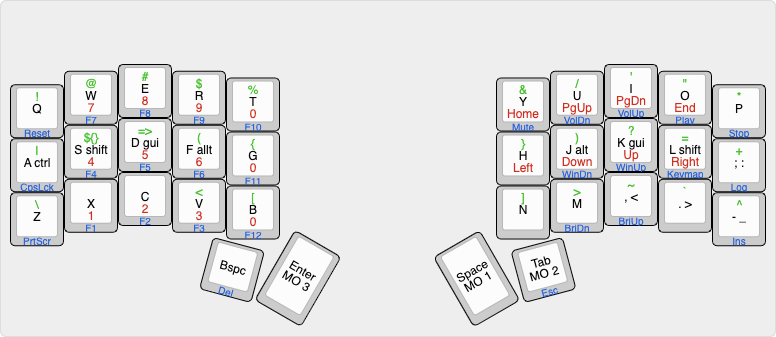
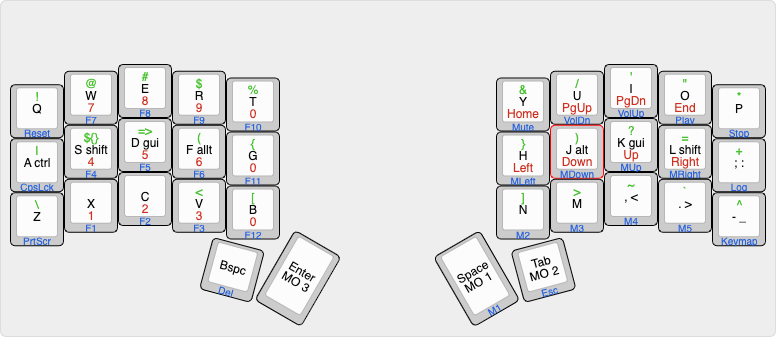
Enable and setup mouse keys

diff --git a/keyboards/crkbd/keymaps/antonioxdias/keymap.c b/keyboards/crkbd/keymaps/antonioxdias/keymap.c
@@ -94,11 +94,11 @@ const uint16_t PROGMEM keymaps[][MATRIX_ROWS][MATRIX_COLS] = {
   //,-----------------------------------------------------.                    ,-----------------------------------------------------.
         KC_NO,   RESET,   KC_F7,   KC_F8,   KC_F9,  KC_F10,                      KC_MUTE, KC_VOLD, KC_VOLU, KC_MPLY, KC_MSTP,   KC_NO,\
   //|--------+--------+--------+--------+--------+--------|                    |--------+--------+--------+--------+--------+--------|
-        KC_NO, KC_CAPS,   KC_F4,   KC_F5,   KC_F6,  KC_F11,                        KC_NO, KC_WH_D, KC_WH_U,  KEYMAP,     LOG,   KC_NO,\
+        KC_NO, KC_CAPS,   KC_F4,   KC_F5,   KC_F6,  KC_F11,                      KC_MS_L, KC_MS_D, KC_MS_U, KC_MS_R,     LOG,   KC_NO,\
   //|--------+--------+--------+--------+--------+--------|                    |--------+--------+--------+--------+--------+--------|
-        KC_NO, KC_PSCR,   KC_F1,   KC_F2,   KC_F3,  KC_F12,                        KC_NO, KC_BRMD, KC_BRMU,   KC_NO,  KC_INS,   KC_NO,\
+        KC_NO, KC_PSCR,   KC_F1,   KC_F2,   KC_F3,  KC_F12,                      KC_BTN2, KC_BTN3, KC_BTN4, KC_BTN5,  KEYMAP,   KC_NO,\
   //|--------+--------+--------+--------+--------+--------+--------|  |--------+--------+--------+--------+--------+--------+--------|
-                                            KC_NO,  KC_DEL, KC_TRNS,     KC_SPC,  KC_ESC,   KC_NO \
+                                            KC_NO,  KC_DEL, KC_TRNS,    KC_BTN1,  KC_ESC,   KC_NO \
                                       //`--------------------------'  `--------------------------'
   )
 };

diff --git a/keyboards/crkbd/keymaps/antonioxdias/config.h b/keyboards/crkbd/keymaps/antonioxdias/config.h
@@ -45,3 +45,9 @@ along with this program.  If not, see <http://www.gnu.org/licenses/>.
 // #endif
 
 #define OLED_FONT_H "keyboards/crkbd/lib/glcdfont.c"
+
+#define MOUSEKEY_INTERVAL 16
+#define MOUSEKEY_DELAY 0
+#define MOUSEKEY_TIME_TO_MAX 60
+#define MOUSEKEY_MAX_SPEED 7
+#define MOUSEKEY_WHEEL_DELAY 0
